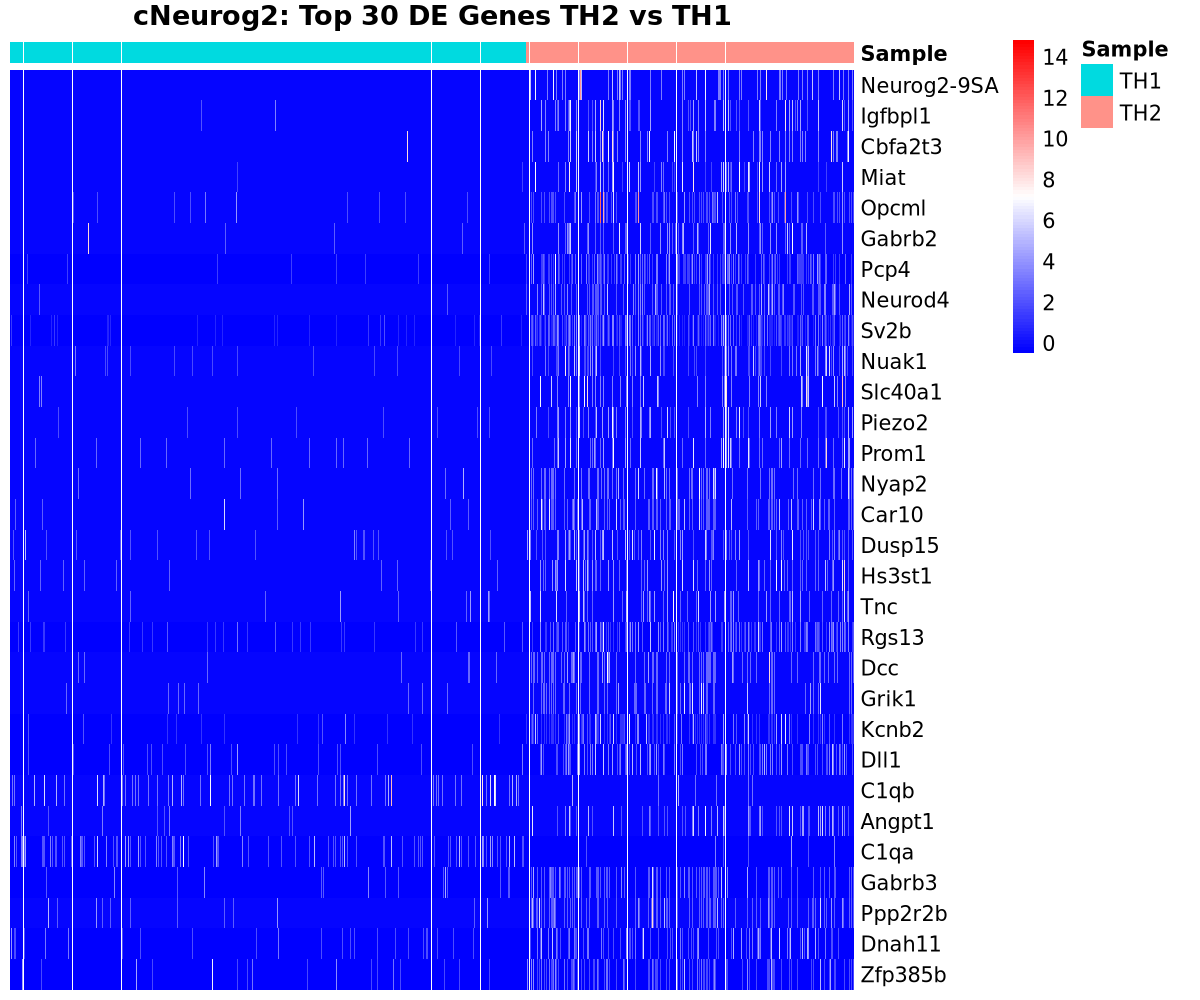
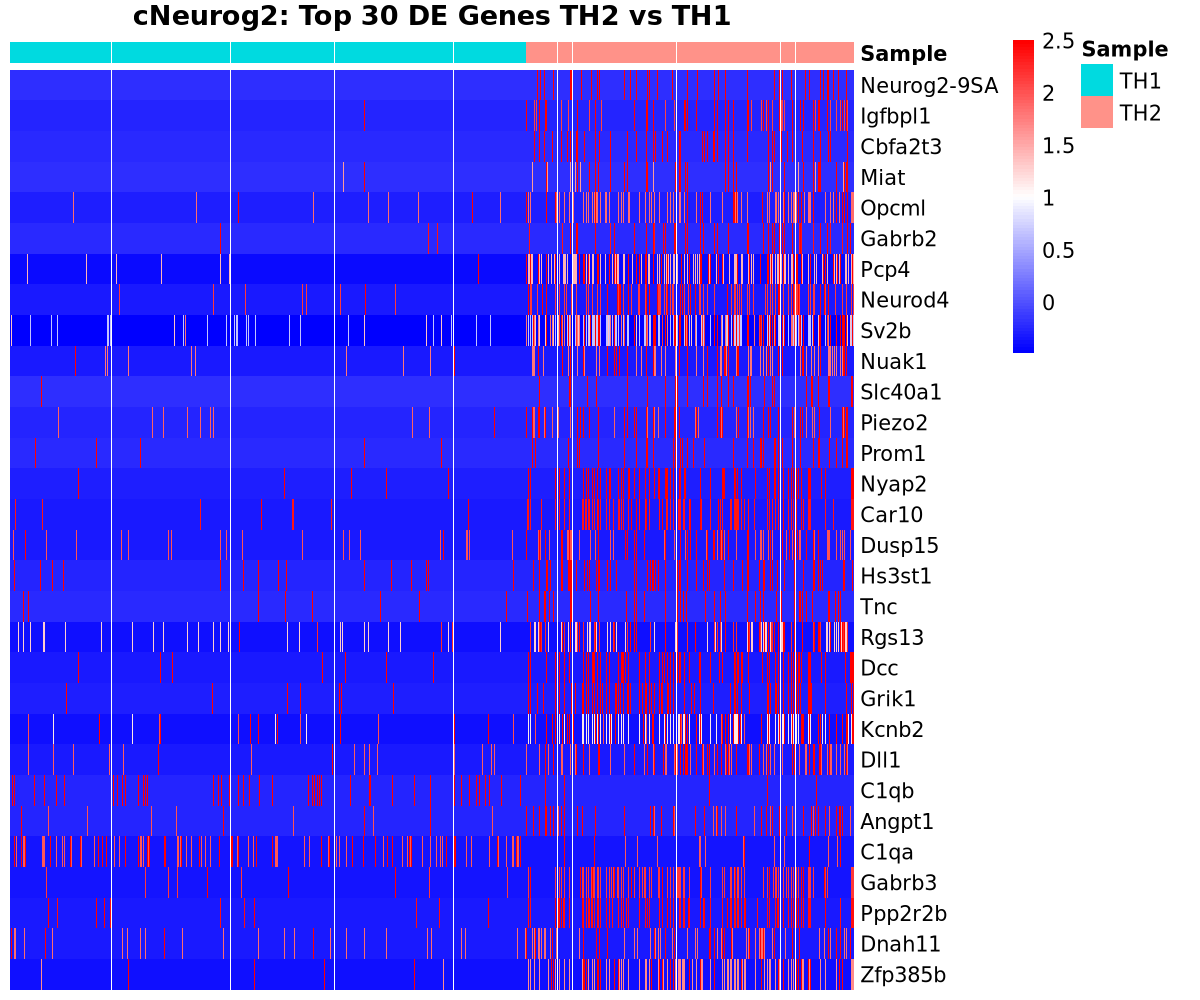
fix subset MG/MGPC heatmap

diff --git a/README.md b/README.md
@@ -154,6 +154,7 @@ dge_results <- FindMarkers(
 
 ``` 
 
+![Top markers heatmap](figures/cNeurog2_TH2_vs_TH1_heatmap_top30.png?v=2)
 
 ## Download DGE for MG/MGPC subset 
 
